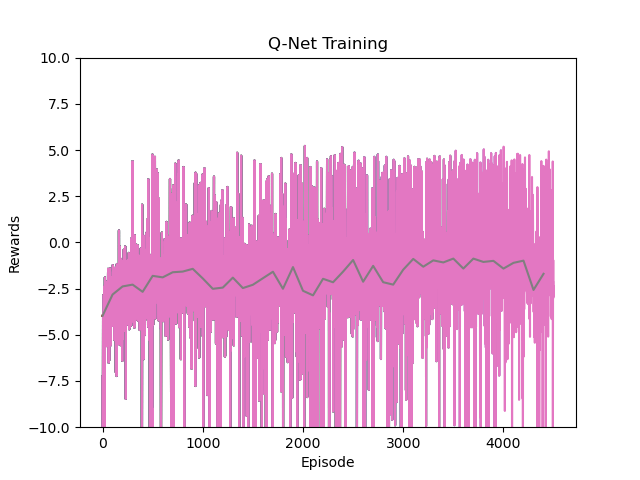
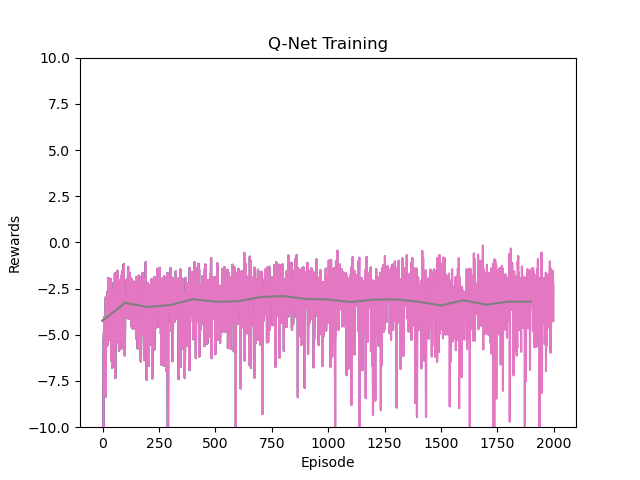
ready to train with crates

Changed region(s): [[0.1562, 0.3125, 0.9062, 0.9375]]

diff --git a/agent_code/bomb_me_if_you_can_agent/train.py b/agent_code/bomb_me_if_you_can_agent/train.py
@@ -37,14 +37,35 @@ def setup_training(self):
     self.round_events = []
     self.rewards_list = []
     self.reward_mean = []
+    self.rewards_list_game = []
+    self.reward_mean_game = []
+    self.penultimate_position = (0, 0)
 
     # setup plot
 
-    plt.title('Q-Net Training')
+    # plt.title('Q-Net Training')
+    # plt.xlabel('Episode')
+    # plt.ylabel('Rewards')
+    # plt.ylim([-constants.SIZE_Y_AXIS, constants.SIZE_Y_AXIS])
+    # plt.ion()
+
+    plt.figure(figsize=(12, 5))
+
+    plt.subplot(121)
+    plt.title('Rewards training')
     plt.xlabel('Episode')
     plt.ylabel('Rewards')
-    plt.ylim([-15, 2])
+    plt.ylim([-constants.SIZE_Y_AXIS, constants.SIZE_Y_AXIS])
     plt.ion()
+
+    plt.subplot(122)
+    plt.title('Rewards game')
+    plt.xlabel('Episode')
+    plt.ylabel('Rewards')
+    plt.ylim([0, 30])
+    plt.ion()
+
+    plt.suptitle('Q-Net Training')
 
     # Pre Training:
     load_training_data(self)
@@ -133,14 +154,29 @@ def end_of_round(self, last_game_state: dict, last_action: str, events: List[str
         self.round_events.append(event)
 
     self.rewards_list.append(reward_from_events(self, self.round_events))
+
+    sum_reward_round = 0
+    for reward in self.round_events:
+        if (reward == e.COIN_COLLECTED):
+            sum_reward_round += 1
+        elif (reward == e.KILLED_OPPONENT):
+            sum_reward_round += 5
+    self.rewards_list_game.append(sum_reward_round)
+
     self.round_events = []
 
     if last_game_state.get('round') % constants.PLOT_MEAN_OVER_ROUNDS == 0:
         self.reward_mean.append(np.mean(self.rewards_list[-constants.PLOT_MEAN_OVER_ROUNDS:]))
+        self.reward_mean_game.append(np.mean(self.rewards_list_game[-constants.PLOT_MEAN_OVER_ROUNDS:]))
 
     if last_game_state.get('round') % constants.EPISODES_TO_PLOT == 0:
+        plt.subplot(121)
         plt.plot(self.rewards_list)
-        plt.plot(np.arange(0, len(self.reward_mean))* constants.PLOT_MEAN_OVER_ROUNDS, self.reward_mean)
+        plt.plot(np.arange(0, len(self.reward_mean)) * constants.PLOT_MEAN_OVER_ROUNDS, self.reward_mean)
+
+        plt.subplot(122)
+        plt.plot(self.rewards_list_game)
+        plt.plot(np.arange(0, len(self.reward_mean_game)) * constants.PLOT_MEAN_OVER_ROUNDS, self.reward_mean_game)
         plt.savefig(constants.NAME_OF_FILES + '_plot.png')
 
     action = last_action
@@ -162,9 +198,9 @@ def end_of_round(self, last_game_state: dict, last_action: str, events: List[str
         print()
 
     # Increase Steps per Round after particular Episodes
-    #if constants.ROUNDS_NR % constants.INCREASE_STEPS_AFTER_EPISODES == 0 and s.MAX_STEPS < 400:
-    #    s.MAX_STEPS = s.MAX_STEPS + constants.INCREASE_STEP_VALUE
-    #constants.ROUNDS_NR = constants.ROUNDS_NR +1
+    if constants.ROUNDS_NR % constants.INCREASE_STEPS_AFTER_EPISODES == 0 and s.MAX_STEPS < 400:
+        s.MAX_STEPS = s.MAX_STEPS + constants.INCREASE_STEP_VALUE
+    constants.ROUNDS_NR = constants.ROUNDS_NR +1
 
     print()
     print('Epsilon: ' + str(constants.EPS))
@@ -188,7 +224,7 @@ def reward_from_events(self, events: List[str]) -> int:
         e.COIN_COLLECTED: 0.5,
         e.KILLED_OPPONENT: 0.7,
         e.INVALID_ACTION: -0.9,  # macht es sinn invalide aktionen zu bestrafen?
-        # e.COIN_FOUND: 0.1,
+        e.COIN_FOUND: 0.01,
         e.CRATE_DESTROYED: 0.15,
         e.GOT_KILLED: -0.80,
         e.KILLED_SELF: -1,

diff --git a/agent_code/bomb_me_if_you_can_agent/callbacks.py b/agent_code/bomb_me_if_you_can_agent/callbacks.py
@@ -24,24 +24,24 @@ def setup(self):
 
     :param self: This object is passed to all callbacks and you can set arbitrary values.
     """
-    if self.train or not os.path.isfile("coin_based_model_2.pt"):
+    if self.train or not os.path.isfile("coin_based_model.pt"):
         self.logger.info("Setting up model from scratch.")
 
-        # with open("coin_based_model_2.pt", "rb") as file:
-        #     self.target_model = pickle.load(file)
-        # self.target_model.cuda()
-        # self.training_model = self.target_model
-
-        self.training_model = Q_Net()
-        self.training_model.cuda(0)
-        self.training_model.train()
-        self.training_model.double()
-
-        self.target_model = Q_Net()
+        with open("coin_based_model.pt", "rb") as file:
+            self.target_model = pickle.load(file)
         self.target_model.cuda()
-        self.target_model.double()
-        self.target_model.load_state_dict(self.training_model.state_dict())
-        self.target_model.eval()
+        self.training_model = self.target_model
+
+        # self.training_model = Q_Net()
+        # self.training_model.cuda(0)
+        # self.training_model.train()
+        # self.training_model.double()
+        #
+        # self.target_model = Q_Net()
+        # self.target_model.cuda()
+        # self.target_model.double()
+        # self.target_model.load_state_dict(self.training_model.state_dict())
+        # self.target_model.eval()
 
         self.optimizer = torch.optim.Adam(params=self.training_model.parameters(), lr=constants.LEARNING_RATE)
         self.criterion = nn.SmoothL1Loss()

diff --git a/agent_code/bomb_me_if_you_can_agent/constants.py b/agent_code/bomb_me_if_you_can_agent/constants.py
@@ -1,5 +1,5 @@
 AMOUNT_OF_TRAINING_EPISODES = 100000
-NAME_OF_FILES = 'coin_based_model'
+NAME_OF_FILES = 'crate_expand_model'
 
 # Hyper parameters
 TRANSITION_HISTORY_SIZE = 10000  # keep only ... last transitions
@@ -20,7 +20,7 @@ INCREASE_STEPS_AFTER_EPISODES = 1000
 INCREASE_STEP_VALUE = 20
 
 # Plot
-EPISODES_TO_PLOT = 500
+EPISODES_TO_PLOT = 10
 PLOT_MEAN_OVER_ROUNDS = 100
 SIZE_Y_AXIS = 10
 

diff --git a/settings.py b/settings.py
@@ -5,12 +5,12 @@ from fallbacks import pygame
 # Game properties
 COLS = 17
 ROWS = 17
-#CRATE_DENSITY = 0.75
-CRATE_DENSITY = 0.0
+CRATE_DENSITY = 0.75
+#CRATE_DENSITY = 0.0
 MAX_AGENTS = 4
 
 # Round properties
-MAX_STEPS = 100
+MAX_STEPS = 20
 
 # GUI properties
 GRID_SIZE = 30
